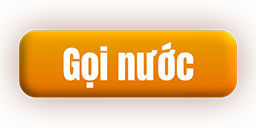
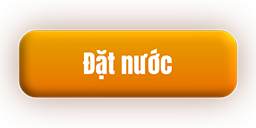
Update info to order drinks

Changed region(s): [[0.2188, 0.3125, 0.7812, 0.6875]]

diff --git a/index.html b/index.html
@@ -37,15 +37,15 @@
                         <div class="board-shadow" id="game-board-shadow"></div>
                         <div class="board" id="board">
                         </div>
-                        <div id="confirm-select-popup" class="popup">
+                        <!-- <div id="confirm-select-popup" class="popup">
                             <div class="wrapper">
                                 <div class="selected-block" id="selected-block"></div>
                                 <div class="content" id="content">Bạn có chắc chắn muốn mở viên kẹo này chứ? Bạn sẽ không thể hồi lại đâu nhé.</div>   
                                 <div id="cancel-button" class="popup-button" onclick="hidePopup()"></div>
                                 <div id="confirm-button" class="popup-button" onclick="userConfirm()"></div>
                             </div>
-                        </div>
-                        <div class="before-u-play" id="before-u-play">
+                        </div> -->
+                        <!-- <div class="before-u-play" id="before-u-play">
                             <img src="src/images/optimized/tinified/before-u-play.png"  alt="lupu coffee"/>
                             <div class="bup-content" id="bup-content">
                                 <h2 id="bup-title">Vòng 1</h2>
@@ -54,17 +54,26 @@
                                     <img src="src/images/optimized/tinified/agree-button.png" alt="lupu coffee"/>
                                 </div>
                             </div>
+                        </div> -->
+                    </div>
+                    <div class="info-and-interaction">
+                        <div class="guide-text" id="guide-text">
+                            Bạn sẽ phải bỏ đi 6 viên kẹo chỉ để lại 3. Nhấn vào 1 viên bất kì để bỏ.
+                        </div>
+                        <div class="play-times-indicator" id="play-times-indicator">
+                            <div class="wrapper">
+                                <div id="round1-content" class="show">Còn <span class="play-times" id="play-times"></span> viên phải bỏ</div>
+                                <div id="round2-content">Bạn có <span class="play-times" id="round2-play-times"></span> lượt chơi</div>
+                            </div>
+                        </div>
+                        <div class="buying-info" id="buying-info">
+                            <p>Bạn sẽ được đưa đến inbox của LUPU khi nhấn vào nút "Đặt nước" bên dưới.</p>
+                            <div id="order-button" class="order-button" onclick="">
+                                <img src="src/images/optimized/tinified/order-button.png" alt="lupu coffee"/>
+                            </div>
                         </div>
                     </div>
-                    <div class="guide-text" id="guide-text">
-                        Bạn sẽ phải bỏ đi 6 viên kẹo chỉ để lại 3. Nhấn vào 1 viên bất kì để bỏ.
-                    </div>
-                    <div class="play-times-indicator" id="play-times-indicator">
-                        <div class="wrapper">
-                            <div id="round1-content" class="show">Còn <span class="play-times" id="play-times"></span> viên phải bỏ</div>
-                            <div id="round2-content">Bạn có <span class="play-times" id="round2-play-times"></span> lượt chơi</div>
-                        </div>
-                    </div>
+                  
                     <div class="game-menu" id="game-menu">
                         <div class="menu-background">
                             <img src="src/images/optimized/tinified/menu-background.png" alt="lupu coffee"/>
@@ -77,7 +86,7 @@
                         <p class="copyright">Một sản phẩm của đội ngũ LUPU Coffee</p>
                     </div>
                 </div>    
-                <div class="order-screen" id="order-screen">
+                <!-- <div class="order-screen" id="order-screen">
                     <div class="wrapper">
                         <div class="order-screen-background" id="popup-background"></div>
                         <div class="order-screen-background-bottom" id="popup-bottom-background"></div>
@@ -126,7 +135,7 @@
                             </div>
                         </div>
                     </div>
-                </div>
+                </div> -->
             </div>
         </div>
         <!-- <div id="dialog" style="position:absolute; top:0; left: 0; background: black; border-radius: 5px; padding: 5px; color: white;"></div> -->

diff --git a/src/js/code.js b/src/js/code.js
@@ -547,11 +547,11 @@ function boardInit (){
     var gameBoardShadow =  document.getElementById("game-board-shadow");
     var board = document.getElementById("board");
     var playTimeIndicator = document.getElementById("play-times");
-    var confirmPopup = document.getElementById("confirm-select-popup");
-    var cancelButton = document.getElementById("cancel-button");
-    var confirmButton = document.getElementById("confirm-button");
+    // var confirmPopup = document.getElementById("confirm-select-popup");
+    // var cancelButton = document.getElementById("cancel-button");
+    // var confirmButton = document.getElementById("confirm-button");
     var content = document.getElementById('content');
-    var orderPopup = byID("order-popup");
+    // var orderPopup = byID("order-popup");
     let boardWidth = /*board.offsetWidth;*/ viewportWidth;
     var logo = byID("game-logo");
     var htmlString = ""
@@ -587,17 +587,17 @@ function boardInit (){
     // board.style.height = boardSize;
 
     
-    confirmPopup.style.width = boardSize;
-    confirmPopup.style.height = boardSize;
-    content.style.width = boardWidth*0.65;
-    content.style.height = (boardWidth*0.65)*0.5;
-    cancelButton.style.width = popupButtonSizeW;
-    cancelButton.style.height = popupButtonSizeH;
-    confirmButton.style.width = popupButtonSizeW;
-    confirmButton.style.height = popupButtonSizeH;
+    // confirmPopup.style.width = boardSize;
+    // confirmPopup.style.height = boardSize;
+    // content.style.width = boardWidth*0.65;
+    // content.style.height = (boardWidth*0.65)*0.5;
+    // cancelButton.style.width = popupButtonSizeW;
+    // cancelButton.style.height = popupButtonSizeH;
+    // confirmButton.style.width = popupButtonSizeW;
+    // confirmButton.style.height = popupButtonSizeH;
 
-    orderPopup.style.width = boardWidth;
-    orderPopup.style.height = boardWidth/0.8333;
+    // orderPopup.style.width = boardWidth;
+    // orderPopup.style.height = boardWidth/0.8333;
 
     playTimeIndicator.innerHTML = playTimes;
 

diff --git a/src/css/board-v2.css b/src/css/board-v2.css
@@ -342,3 +342,41 @@ body{
 }
 
 
+/* ----------------------from another file---------------------------------- */
+
+.buying-info{
+    /* background: tan; */
+    height: 100%;
+    opacity: 0;
+    position: absolute;
+    top:0;
+    width: 100%;
+    z-index: -10;
+}
+
+.buying-info.show{
+    animation:  fadeIn 0.5s ease-in-out 0s forwards;
+    -webkit-animation:  fadeIn 0.5s ease-in-out 0s forwards;
+    z-index: 10;
+}
+
+.buying-info > p{
+    color: white;
+    margin: 1.1em auto;
+    text-align: center;
+    width: 65%;
+}
+
+.order-button{
+    align-items: center;
+    display: flex;
+    height: 2em;
+    justify-content: center;
+    margin: 0 auto;
+    width: 40%;
+}
+
+.order-button > img{
+    max-width: 100%;
+}
+

diff --git a/src/css/main.css b/src/css/main.css
@@ -156,6 +156,11 @@ body{
     z-index: 1;
 }
 
+.info-and-interaction{
+    position: relative;
+    width: 100%;
+}
+
 .guide-text{
     color: #c7eaff;
     /* font-size: 4vw;
@@ -223,7 +228,7 @@ body{
     color:#FF7600;
 }
 
-.order-button{
+/* .order-button{
     border: 2px solid white;
     border-radius: 100px;
     background: rgb(241,105,1);
@@ -232,4 +237,7 @@ body{
     font-family:  anton;
     margin: 5% auto;
     text-align: center;
-}
+} */
+
+
+

diff --git a/src/js/optimized.js b/src/js/optimized.js
@@ -209,7 +209,9 @@ hidePopup = ()=>{
                 },1000);
             }else{
                 let products = document.getElementById("products");
+                let buyingInfo = document.getElementById("buying-info");
                 products.className += " show";
+                buyingInfo.className += " show";
             }
         }
     }else{

diff --git a/src/css/popup.css b/src/css/popup.css
@@ -95,16 +95,3 @@
     text-align: left;
 }
 
-.bup-agree-button{
-    align-items: center;
-    display: flex;
-    height: 4em;
-    margin: 0 auto;
-    width: 60%;
-}
-
-
-.bup-agree-button > img{
-    max-width: 100%;
-}
-
